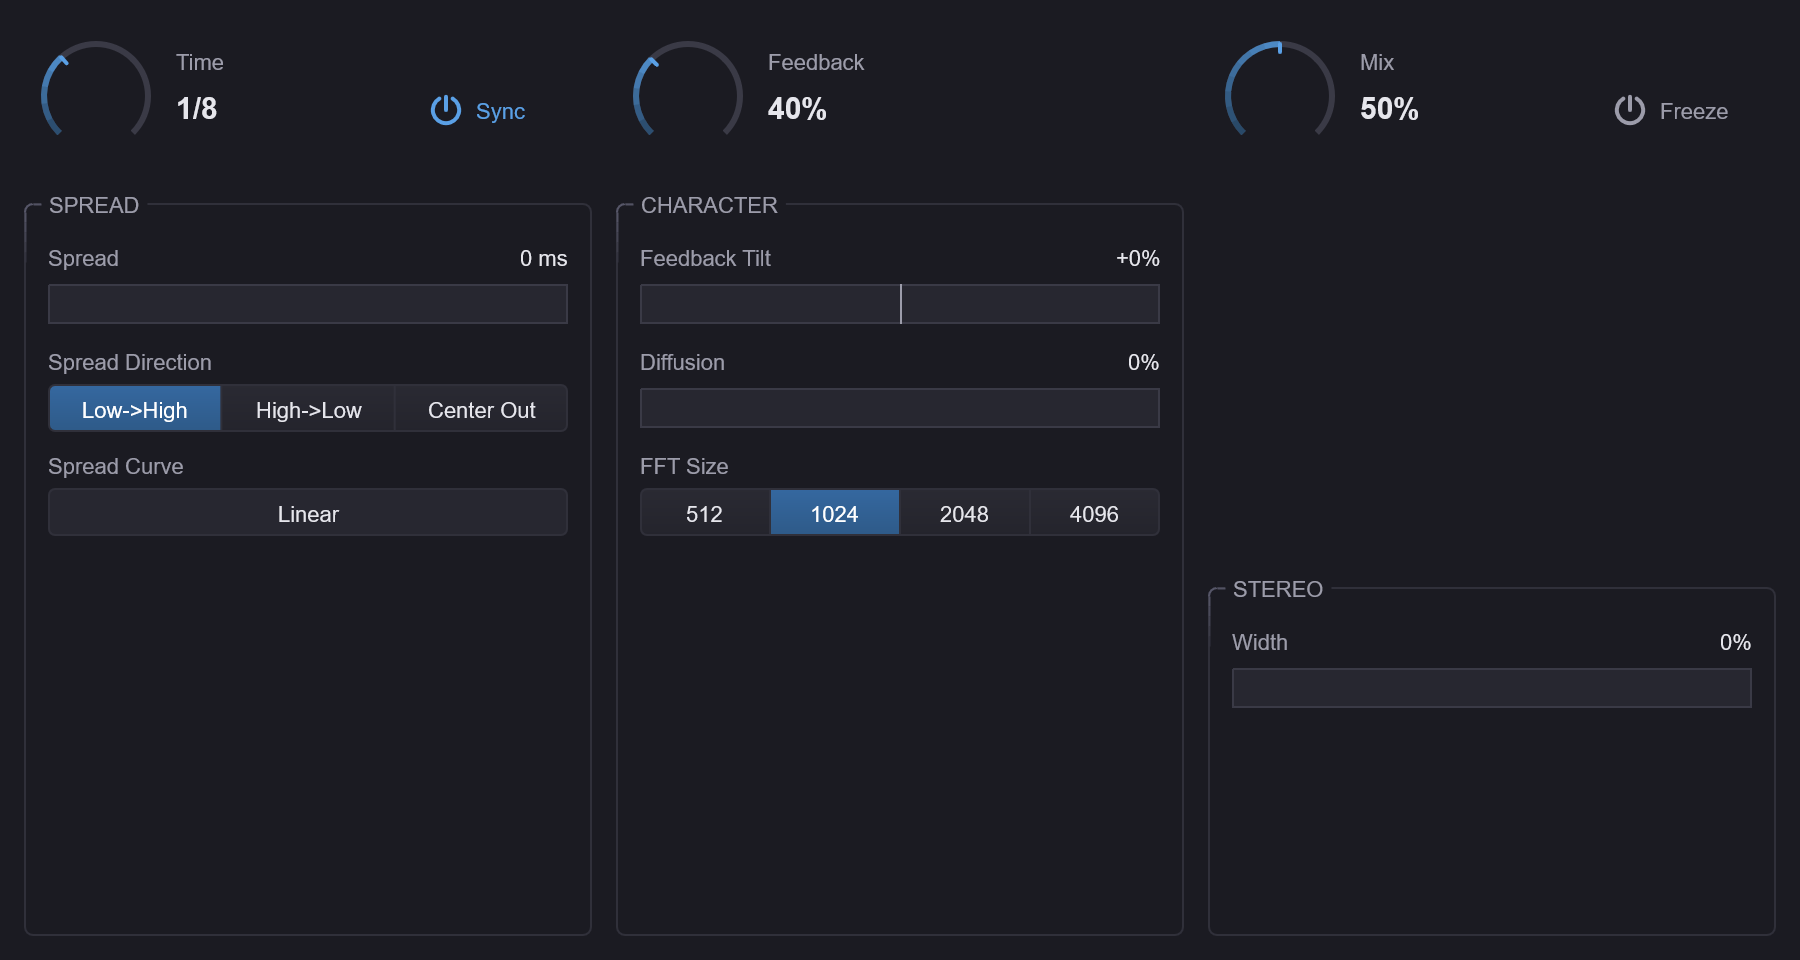
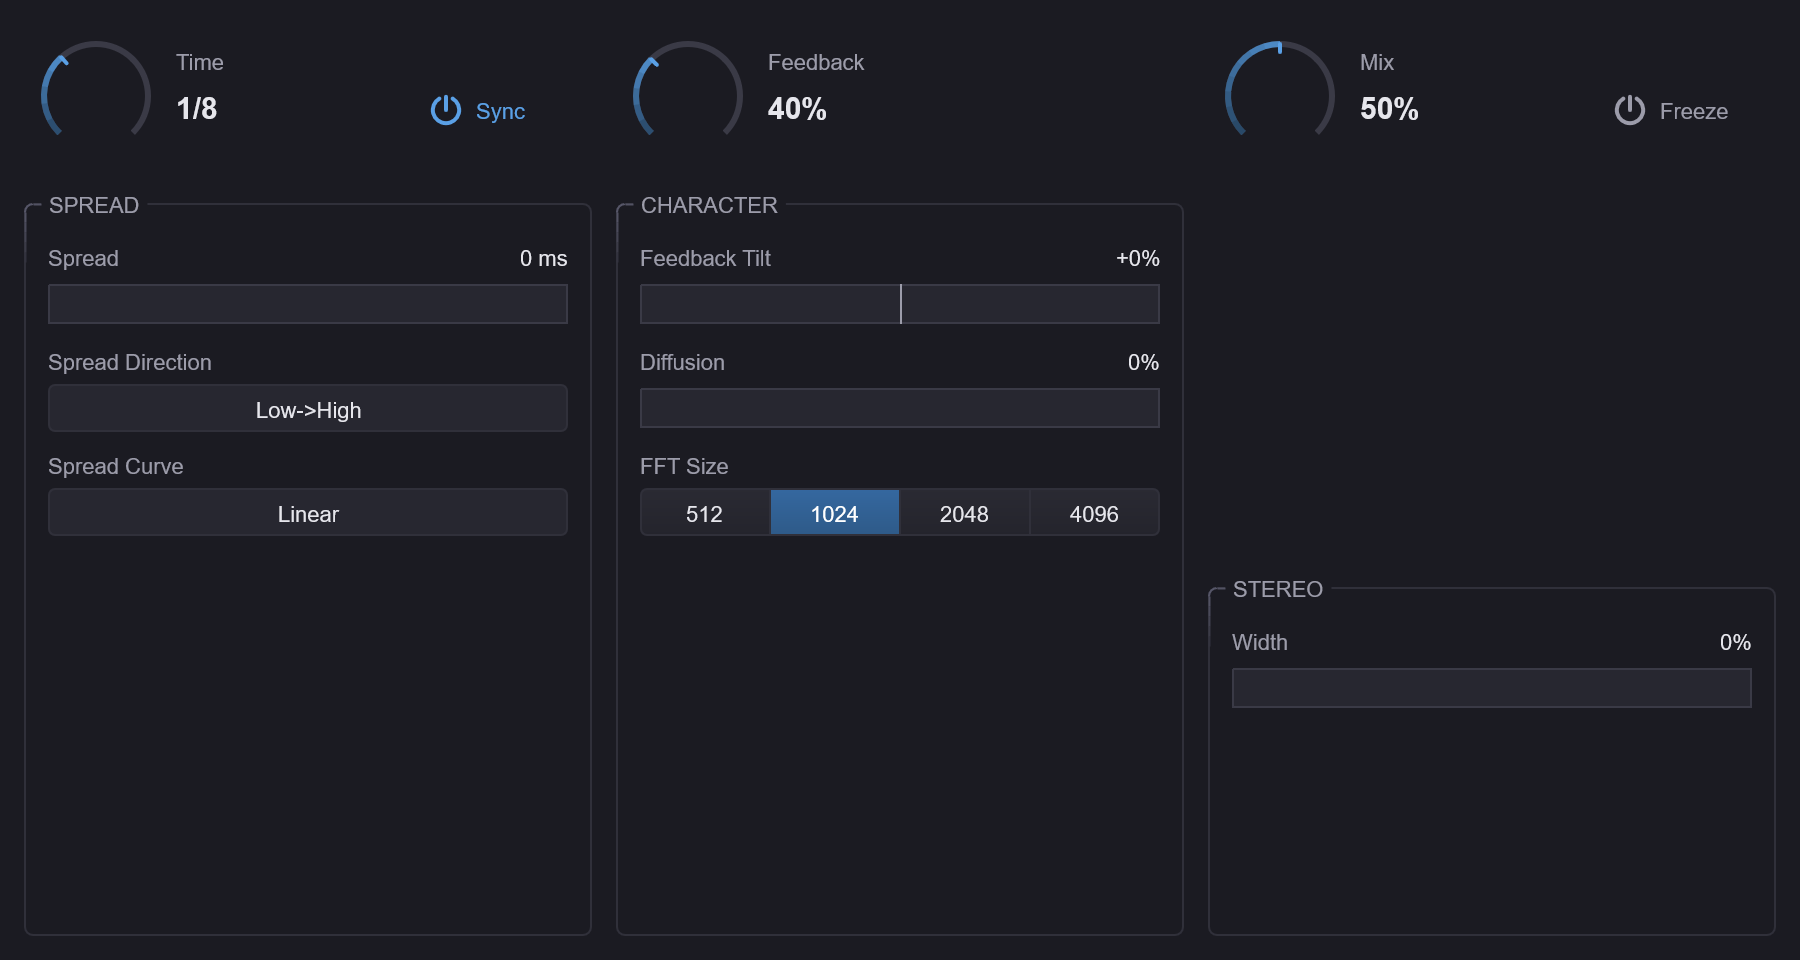
feat: two new spectral delay spread directions (Edges In, Cross)
SpreadDirection gains two entries after Center Out:
- EdgesIn: 1 - |p - 0.5| * 2, the mirror of Center Out; the lows and
  highs return first and the echo closes in on the mids.
- Cross: the left channel lays the spread out Low > High, the right
  High > Low, so the echo sweeps up on one side and down on the other.
  The right channel gets its own per-bin delay array (binDelayFramesR_,
  filled only for Cross); readDelayedSpectrum takes the array to read.

Iterum: Spread Direction has 5 entries; the panel control becomes a menu
(design-system 4.6) and the panel test expects one; the controller maps
the saved index / 4 (was / 2). Ruinae: 5 entries, the effects chain
clamp follows kNumSpreadDirections. Both save the direction as its
index, so saved directions stay. Seraphis keeps its three (its list is
frozen as registered, FR-020 / C-6; user, 2026-11-23: keep Seraphis as
is); the comment there says so.

Tests (red before): Edges In added to the octave-layout arrival test;
"SpectralDelay Cross spread sweeps up on the left and down on the
right" checks each channel against Low > High / High > Low (within
13 ms).

Gates: Windows build 0 warnings; run-gate GREEN dsp_effects 70,
plugin_tests 117, ruinae 914, seraphis 109 cases; clang-cl fast-math
GREEN on the same plugin cases; macos-fastmath-repro [spectral-delay]
69 cases green; GCC 13 -O3 -Wall -Wextra (incl. -Wswitch) on the
SpectralDelay and controller TUs: 0 new warnings; pluginval 5 Iterum /
[…]

Changed region(s): [[0.0, 0.375, 0.1244, 0.4688], [0.2489, 0.4062, 0.3111, 0.4375], [0.1556, 0.4062, 0.2178, 0.4375]]

diff --git a/dsp/include/krate/dsp/effects/spectral_delay.h b/dsp/include/krate/dsp/effects/spectral_delay.h
@@ -55,8 +55,13 @@ namespace Krate::DSP {
 enum class SpreadDirection : std::uint8_t {
     LowToHigh,  ///< Higher bins get longer delays (rising effect)
     HighToLow,  ///< Lower bins get longer delays (falling effect)
-    CenterOut   ///< Edge bins get longer delays, center is base delay
+    CenterOut,  ///< Edge bins get longer delays, center is base delay
+    EdgesIn,    ///< Center bins get longer delays, the edges arrive first (closing in)
+    Cross       ///< Left channel Low > High, right channel High > Low
 };
+
+/// Number of SpreadDirection values (plugins size their menus from it)
+inline constexpr int kNumSpreadDirections = 5;
 
 namespace detail {
 
@@ -236,6 +241,7 @@ public:
         wetFifoR_.assign(2 * kMaxFFTSize + maxBlockSize, 0.0f);
         blurredMag_.assign(kMaxBins, 0.0f);
         binDelayFrames_.assign(kMaxBins, 0.0f);
+        binDelayFramesR_.assign(kMaxBins, 0.0f);
         peaks_.assign(kMaxBins, 0);
         regionPeak_.assign(kMaxBins, 0);
         for (DelayedSpectrum* s : {&delayedL_, &delayedR_}) {
@@ -858,10 +864,13 @@ private:
     /// / Center Out like a plain longer one (measured 2026-11-23). On the octave
     /// scale each octave gets an equal share (Linear), or the low octaves most of
     /// it (Logarithmic), independent of sample rate and FFT size.
+    /// Cross lays the left channel out Low > High and the right High > Low;
+    /// every other direction is the same on both channels (rightChannel ignored).
     [[nodiscard]] float calculateBinDelayMs(std::size_t bin,
                                             std::size_t numBins,
                                             float baseDelay,
-                                            float spread) const noexcept {
+                                            float spread,
+                                            bool rightChannel = false) const noexcept {
         if (numBins <= 1) return baseDelay;
 
         const float binHz = static_cast<float>(bin) * static_cast<float>(sampleRate_)
@@ -913,6 +922,12 @@ private:
             case SpreadDirection::CenterOut:
                 delayOffset = std::abs(position - 0.5f) * 2.0f * spread;
                 break;
+            case SpreadDirection::EdgesIn:
+                delayOffset = (1.0f - std::abs(position - 0.5f) * 2.0f) * spread;
+                break;
+            case SpreadDirection::Cross:
+                delayOffset = (rightChannel ? 1.0f - position : position) * spread;
+                break;
         }
 
         return baseDelay + delayOffset;
@@ -930,7 +945,7 @@ private:
     static constexpr float kPeakFloor = 1e-9f;
 
     /// @brief Read one channel's spectrum at each bin's fractional frame delay
-    ///        (binDelayFrames_) into out.mag / out.phase
+    ///        (delayFrames) into out.mag / out.phase
     ///
     /// Most delay times fall between two STFT frames. Blending the frames' complex
     /// values linearly cancels: at 50 % overlap a bin's phase turns by up to pi per
@@ -945,13 +960,14 @@ private:
     /// whole-frame delay reads the newer frame unchanged.
     void readDelayedSpectrum(const std::vector<DelayLine>& realLines,
                              const std::vector<DelayLine>& imagLines,
+                             const std::vector<float>& delayFrames,
                              DelayedSpectrum& out, std::size_t numBins) noexcept {
         // Pass 1: newer-frame magnitude and phase, blended magnitude, and each
         // bin's own true phase advance per hop (expected plus wrapped deviation)
         for (std::size_t bin = 0; bin < numBins; ++bin) {
-            const float delayFrames = binDelayFrames_[bin];
-            const auto newer = static_cast<std::size_t>(delayFrames);
-            const float frac = delayFrames - static_cast<float>(newer);
+            const float binDelay = delayFrames[bin];
+            const auto newer = static_cast<std::size_t>(binDelay);
+            const float frac = binDelay - static_cast<float>(newer);
 
             const float reNew = realLines[bin].read(newer);
             const float imNew = imagLines[bin].read(newer);
@@ -1017,8 +1033,8 @@ private:
         // Pass 3: step each bin's phase from its nearer frame by the locked advance:
         // back by frac from the newer frame, forward by (1 - frac) from the older
         for (std::size_t bin = 0; bin < numBins; ++bin) {
-            const float delayFrames = binDelayFrames_[bin];
-            const float frac = delayFrames - std::floor(delayFrames);
+            const float binDelay = delayFrames[bin];
+            const float frac = binDelay - std::floor(binDelay);
             const float stepFromNearer = (frac <= 0.5f) ? -frac : (1.0f - frac);
             out.phase[bin] += stepFromNearer * out.advance[bin];
         }
@@ -1034,7 +1050,7 @@ private:
         for (std::size_t bin = 0; bin < numBins; ++bin) {
             const std::size_t peak = regionPeak_[bin];
             if (peak == bin) continue;
-            const float peakDelay = binDelayFrames_[peak];
+            const float peakDelay = delayFrames[peak];
             const auto peakNewer = static_cast<std::size_t>(peakDelay);
             const std::size_t peakFrame =
                 peakNewer + ((peakDelay - static_cast<float>(peakNewer)) <= 0.5f ? 0u : 1u);
@@ -1171,10 +1187,20 @@ private:
             binDelayFrames_[bin] =
                 std::max(0.0f, (binDelayMs / 1000.0f) * frameRate - 1.0f);
         }
+        // Cross gives the right channel its own (mirrored) layout
+        const bool cross = spreadDirection_ == SpreadDirection::Cross;
+        if (cross) {
+            for (std::size_t bin = 0; bin < numBins; ++bin) {
+                const float binDelayMs =
+                    calculateBinDelayMs(bin, numBins, baseDelay, spread, /*rightChannel=*/true);
+                binDelayFramesR_[bin] = std::max(0.0f, (binDelayMs / 1000.0f) * frameRate - 1.0f);
+            }
+        }
 
         // Read the delayed spectra (before this frame's write, see above)
-        readDelayedSpectrum(binRealDelaysL_, binImagDelaysL_, delayedL_, numBins);
-        readDelayedSpectrum(binRealDelaysR_, binImagDelaysR_, delayedR_, numBins);
+        readDelayedSpectrum(binRealDelaysL_, binImagDelaysL_, binDelayFrames_, delayedL_, numBins);
+        readDelayedSpectrum(binRealDelaysR_, binImagDelaysR_,
+                            cross ? binDelayFramesR_ : binDelayFrames_, delayedR_, numBins);
 
         // Feedback soft limiter, in the signal's own (time-domain) scale (R-057).
         // tanh() on raw FFT magnitudes (FFT::forward is unnormalised: a sine of
@@ -1442,6 +1468,7 @@ private:
 
     // Fractional-frame read (readDelayedSpectrum)
     std::vector<float> binDelayFrames_;
+    std::vector<float> binDelayFramesR_;  ///< right channel's layout, used only by SpreadDirection::Cross
     std::vector<std::size_t> peaks_;
     std::vector<std::size_t> regionPeak_;  ///< each bin's region peak (readDelayedSpectrum)
     DelayedSpectrum delayedL_;

diff --git a/dsp/tests/unit/effects/spectral_delay_test.cpp b/dsp/tests/unit/effects/spectral_delay_test.cpp
@@ -1822,8 +1822,9 @@ TEST_CASE("SpectralDelay logarithmic spread applies log-scaled delays",
 namespace {
 
 /// Time (ms) of the wet output's envelope peak for a Hann tone burst at freqHz
+/// (left channel, or the right one with rightChannel)
 double spreadEchoPeakMs(SpreadDirection dir, SpreadCurve curve, float spreadMs, float freqHz,
-                        std::size_t fftSize = 1024) {
+                        std::size_t fftSize = 1024, bool rightChannel = false) {
     constexpr double kSr = 44100.0;
     constexpr std::size_t kBlock = 512;
     constexpr std::size_t kLen = static_cast<std::size_t>(kSr * 2.0);
@@ -1856,13 +1857,14 @@ double spreadEchoPeakMs(SpreadDirection dir, SpreadCurve curve, float spreadMs, 
     }
 
     // 10 ms moving energy, peak position
+    const std::vector<float>& out = rightChannel ? right : left;
     constexpr std::size_t kWin = 441;
     double acc = 0.0;
     double best = -1.0;
     std::size_t bestAt = 0;
     for (std::size_t i = 0; i < kLen; ++i) {
-        acc += static_cast<double>(left[i]) * left[i];
-        if (i >= kWin) acc -= static_cast<double>(left[i - kWin]) * left[i - kWin];
+        acc += static_cast<double>(out[i]) * out[i];
+        if (i >= kWin) acc -= static_cast<double>(out[i - kWin]) * out[i - kWin];
         if (acc > best) { best = acc; bestAt = i; }
     }
     return 1000.0 * static_cast<double>(bestAt) / kSr;
@@ -1878,6 +1880,7 @@ double expectedSpreadOffsetMs(SpreadDirection dir, SpreadCurve curve, float spre
     double shape = p;
     if (dir == SpreadDirection::HighToLow) shape = 1.0 - p;
     if (dir == SpreadDirection::CenterOut) shape = std::abs(p - 0.5) * 2.0;
+    if (dir == SpreadDirection::EdgesIn) shape = 1.0 - std::abs(p - 0.5) * 2.0;
     return shape * static_cast<double>(spreadMs);
 }
 
@@ -1887,7 +1890,7 @@ TEST_CASE("SpectralDelay spread places each frequency's echo on an octave scale"
           "[spectral-delay][spread]") {
     constexpr float kSpreadMs = 1000.0f;
     const auto dir = GENERATE(SpreadDirection::LowToHigh, SpreadDirection::HighToLow,
-                              SpreadDirection::CenterOut);
+                              SpreadDirection::CenterOut, SpreadDirection::EdgesIn);
     const auto curve = GENERATE(SpreadCurve::Linear, SpreadCurve::Logarithmic,
                                 SpreadCurve::Exponential);
     const float freq = GENERATE(250.0f, 1000.0f, 4000.0f);
@@ -1900,6 +1903,26 @@ TEST_CASE("SpectralDelay spread places each frequency's echo on an octave scale"
          << " ms, expected " << expected << " ms");
     // A hop is 11.6 ms; the burst covers a few bins whose delays differ by up to ~25 ms
     CHECK(std::abs((spread - unspread) - expected) <= 35.0);
+}
+
+TEST_CASE("SpectralDelay Cross spread sweeps up on the left and down on the right",
+          "[spectral-delay][spread][cross]") {
+    // Cross: the left channel lays the spread out Low > High, the right High > Low
+    constexpr float kSpreadMs = 1000.0f;
+    const auto curve = GENERATE(SpreadCurve::Linear, SpreadCurve::Logarithmic);
+    const float freq = GENERATE(250.0f, 1000.0f, 4000.0f);
+    for (const bool right : {false, true}) {
+        const double unspread =
+            spreadEchoPeakMs(SpreadDirection::Cross, curve, 0.0f, freq, 1024, right);
+        const double spread =
+            spreadEchoPeakMs(SpreadDirection::Cross, curve, kSpreadMs, freq, 1024, right);
+        const double expected = expectedSpreadOffsetMs(
+            right ? SpreadDirection::HighToLow : SpreadDirection::LowToHigh, curve, kSpreadMs, freq);
+        INFO((right ? "right" : "left") << ", curve " << static_cast<int>(curve) << ", " << freq
+             << " Hz: echo peak moved " << (spread - unspread) << " ms, expected " << expected
+             << " ms");
+        CHECK(std::abs((spread - unspread) - expected) <= 35.0);
+    }
 }
 
 TEST_CASE("SpectralDelay Steps spread puts each of 8 bands at one delay",

diff --git a/plugins/iterum/src/parameters/spectral_params.h b/plugins/iterum/src/parameters/spectral_params.h
@@ -25,6 +25,9 @@ namespace Iterum {
 /// Spread Curve entries: Linear, Logarithmic, Exponential, Steps, Scatter, Random
 /// (Krate::DSP::SpreadCurve order; saved as the index, so new curves go last)
 inline constexpr int kSpectralSpreadCurveCount = 6;
+/// Spread Direction entries: Low->High, High->Low, Center Out, Edges In, Cross
+/// (Krate::DSP::SpreadDirection order; saved as the index, so new directions go last)
+inline constexpr int kSpectralSpreadDirectionCount = 5;
 
 // ==============================================================================
 // SpectralParams Struct
@@ -89,9 +92,10 @@ inline void handleSpectralParamChange(
             break;
 
         case kSpectralSpreadDirectionId:
-            // 0-2 (LowToHigh, HighToLow, CenterOut)
+            // 0-4 (LowToHigh, HighToLow, CenterOut, EdgesIn, Cross)
             params.spreadDirection.store(
-                static_cast<int>(normalizedValue * 2.0 + 0.5),
+                std::clamp(static_cast<int>(normalizedValue * (kSpectralSpreadDirectionCount - 1) + 0.5),
+                           0, kSpectralSpreadDirectionCount - 1),
                 std::memory_order_relaxed);
             break;
 
@@ -204,10 +208,11 @@ inline void registerSpectralParams(Steinberg::Vst::ParameterContainer& parameter
         STR16("Spread")
     );
 
-    // Spread Direction: LowToHigh, HighToLow, CenterOut - MUST use StringListParameter
+    // Spread Direction - MUST use StringListParameter (kSpectralSpreadDirectionCount entries)
     parameters.addParameter(createDropdownParameter(
         STR16("Spread Dir"), kSpectralSpreadDirectionId,
-        {STR16("Low->High"), STR16("High->Low"), STR16("Center Out")}
+        {STR16("Low->High"), STR16("High->Low"), STR16("Center Out"), STR16("Edges In"),
+         STR16("Cross")}
     ));
 
     // Feedback: 0-120%
@@ -488,9 +493,11 @@ inline void loadSpectralParamsToController(
         setParam(kSpectralSpreadId, static_cast<double>(floatVal / 2000.0f));
     }
 
-    // Spread Direction: 0-2 -> normalized = val/2
+    // Spread Direction: 0-4 -> normalized = val / 4
     if (streamer.readInt32(intVal)) {
-        setParam(kSpectralSpreadDirectionId, static_cast<double>(intVal) / 2.0);
+        setParam(kSpectralSpreadDirectionId,
+                 static_cast<double>(std::clamp(intVal, 0, kSpectralSpreadDirectionCount - 1))
+                     / (kSpectralSpreadDirectionCount - 1));
     }
 
     // Feedback: 0-1.2 -> normalized = val/1.2

diff --git a/plugins/iterum/tests/unit/parameters/spectral_params_test.cpp b/plugins/iterum/tests/unit/parameters/spectral_params_test.cpp
@@ -34,9 +34,9 @@ float denormSpread(double normalized) {
     return static_cast<float>(normalized * 2000.0);
 }
 
-// Spread Direction: 0-2 discrete
+// Spread Direction: 0-4 discrete (Low->High, High->Low, Center Out, Edges In, Cross)
 int denormSpreadDirection(double normalized) {
-    return static_cast<int>(normalized * 2.0 + 0.5);
+    return std::clamp(static_cast<int>(normalized * 4.0 + 0.5), 0, 4);
 }
 
 // Feedback: 0-1.2
@@ -135,11 +135,17 @@ TEST_CASE("Spectral Spread Direction normalization", "[params][spectral]") {
     SECTION("normalized 0.0 -> LowToHigh (0)") {
         REQUIRE(denormSpreadDirection(0.0) == 0);
     }
-    SECTION("normalized 0.5 -> HighToLow (1)") {
-        REQUIRE(denormSpreadDirection(0.5) == 1);
+    SECTION("normalized 0.25 -> HighToLow (1)") {
+        REQUIRE(denormSpreadDirection(0.25) == 1);
     }
-    SECTION("normalized 1.0 -> CenterOut (2)") {
-        REQUIRE(denormSpreadDirection(1.0) == 2);
+    SECTION("normalized 0.5 -> CenterOut (2)") {
+        REQUIRE(denormSpreadDirection(0.5) == 2);
+    }
+    SECTION("normalized 0.75 -> EdgesIn (3)") {
+        REQUIRE(denormSpreadDirection(0.75) == 3);
+    }
+    SECTION("normalized 1.0 -> Cross (4)") {
+        REQUIRE(denormSpreadDirection(1.0) == 4);
     }
 }
 

diff --git a/plugins/ruinae/src/parameters/dropdown_mappings.h b/plugins/ruinae/src/parameters/dropdown_mappings.h
@@ -349,15 +349,18 @@ static_assert(std::size(kFFTSizeStrings) == static_cast<std::size_t>(kFFTSizeCou
 static_assert(std::size(Krate::DSP::kSpectralDelayFFTSizes) == static_cast<std::size_t>(kFFTSizeCount));
 
 // =============================================================================
-// Spectral Delay: SpreadDirection dropdown (3 directions, stepCount = 2)
+// Spectral Delay: SpreadDirection dropdown (5 directions, stepCount = 4; Krate::DSP::
+// SpreadDirection order, saved as the index, so new directions go last)
 // =============================================================================
 
-inline constexpr int kSpreadDirectionCount = 3;
+inline constexpr int kSpreadDirectionCount = 5;
 
 inline const Steinberg::Vst::TChar* const kSpreadDirectionStrings[] = {
     STR16("Low > High"),
     STR16("High > Low"),
     STR16("Center Out"),
+    STR16("Edges In"),
+    STR16("Cross"),
 };
 
 // =============================================================================

diff --git a/plugins/iterum/tests/unit/vst/editor_panels_test.cpp b/plugins/iterum/tests/unit/vst/editor_panels_test.cpp
@@ -350,7 +350,7 @@ TEST_CASE("Iterum editor panel Spectral: every control live and of the designed 
                 .rows = {{.tag = kSpectralBaseDelayId, .kind = W::K}, {.tag = kSpectralTimeModeId, .kind = W::T},
                          {.tag = kSpectralFeedbackId, .kind = W::K}, {.tag = kSpectralMixId, .kind = W::K},
                          {.tag = kSpectralFreezeId, .kind = W::T}, {.tag = kSpectralSpreadId, .kind = W::S},
-                         {.tag = kSpectralSpreadDirectionId, .kind = W::SEG},
+                         {.tag = kSpectralSpreadDirectionId, .kind = W::M},
                          {.tag = kSpectralSpreadCurveId, .kind = W::M},
                          {.tag = kSpectralFeedbackTiltId, .kind = W::B}, {.tag = kSpectralDiffusionId, .kind = W::S},
                          {.tag = kSpectralFFTSizeId, .kind = W::SEG}, {.tag = kSpectralStereoWidthId, .kind = W::S}},

diff --git a/plugins/seraphis/src/parameters/dropdown_mappings.h b/plugins/seraphis/src/parameters/dropdown_mappings.h
@@ -249,6 +249,12 @@ static_assert(kGrainEnvelopeLabels.size() == Krate::DSP::AtmosphereEngine::kEnve
 // The count is declared HERE because `spectral_delay.h` declares no
 // enumerator-count sentinel of its own (unlike ContinuousBody::kNumMaterials,
 // asserted at :202 above) and this phase's Non-goals forbid adding one to dsp/.
+//
+// 2026-11-23: SpreadDirection gained EdgesIn and Cross (after CenterOut, and
+// Krate::DSP::kNumSpreadDirections now exists). Seraphis keeps its three entries:
+// this list is frozen as registered (FR-020 / spec C-6, above), so the two new
+// directions are deliberately not exposed here; the assert below still pins the
+// three it does expose to the enum's first three.
 inline constexpr std::size_t kSpreadDirectionCount = 3;
 
 static_assert(kSpreadDirectionCount

diff --git a/plugins/ruinae/src/parameters/delay_params.h b/plugins/ruinae/src/parameters/delay_params.h
@@ -471,7 +471,8 @@ inline void registerDelayParams(Steinberg::Vst::ParameterContainer& parameters) 
         ParameterInfo::kCanAutomate, kDelaySpectralSpreadId);
     parameters.addParameter(createDropdownParameter(
         STR16("Delay Spread Dir"), kDelaySpectralDirectionId,
-        {STR16("Low > High"), STR16("High > Low"), STR16("Center Out")}));
+        {STR16("Low > High"), STR16("High > Low"), STR16("Center Out"), STR16("Edges In"),
+         STR16("Cross")}));
     parameters.addParameter(createDropdownParameter(
         STR16("Delay Spread Curve"), kDelaySpectralCurveId,
         {STR16("Linear"), STR16("Logarithmic"), STR16("Exponential"), STR16("Steps"),

diff --git a/plugins/ruinae/src/engine/ruinae_effects_chain.h b/plugins/ruinae/src/engine/ruinae_effects_chain.h
@@ -674,7 +674,8 @@ public:
         spectralDelay_.setSpreadMs(ms);
     }
     void setDelaySpectralDirection(int dir) noexcept {
-        spectralDelay_.setSpreadDirection(static_cast<SpreadDirection>(std::clamp(dir, 0, 2)));
+        spectralDelay_.setSpreadDirection(
+            static_cast<SpreadDirection>(std::clamp(dir, 0, kNumSpreadDirections - 1)));
     }
     void setDelaySpectralCurve(int curve) noexcept {
         spectralDelay_.setSpreadCurve(

diff --git a/plugins/iterum/MANUAL.md b/plugins/iterum/MANUAL.md
@@ -132,7 +132,7 @@ echo can sit up to about 5 ms off the grid.
 | Mix | Dry/Wet | 0–100 % | 50 % | Dry/wet balance. |
 | Freeze | Freeze | Off / On | Off | Holds the current spectrum. |
 | Spread | Spread | 0–2000 ms | 0 ms | The extra delay across the bands; 0 makes every band arrive together. |
-| Spread Direction | Spread Dir | Low->High, High->Low, Center Out | Low->High | Which bands arrive first. Center Out delays the extremes most. |
+| Spread Direction | Spread Dir | Low->High, High->Low, Center Out, Edges In, Cross | Low->High | Which bands arrive first. Center Out delays the extremes most; Edges In delays the middle most, so the echo closes in on the mids. Cross sweeps up on the left and down on the right at the same time. |
 | Spread Curve | Spread Curve | Linear, Logarithmic, Exponential, Steps, Scatter, Random | Linear | How the spread is shared out over the octaves (20 Hz to 20 kHz). Linear: an equal share per octave, a smooth sweep. Logarithmic: the low octaves get most of it. Exponential: the lows and mids return together, then the highs trail out. Steps: 8 bands, each a separate echo. Scatter: third-octave bands in a fixed shuffled order. Random: the bands keep moving to new delays. |
 | Feedback Tilt | Feedback Tilt | −100 to +100 % | 0 % | Negative favours the lows in the feedback, positive the highs. |
 | Diffusion | Diffusion | 0–100 % | 0 % | Blurs neighbouring bands together for a softer, washier tail. |
